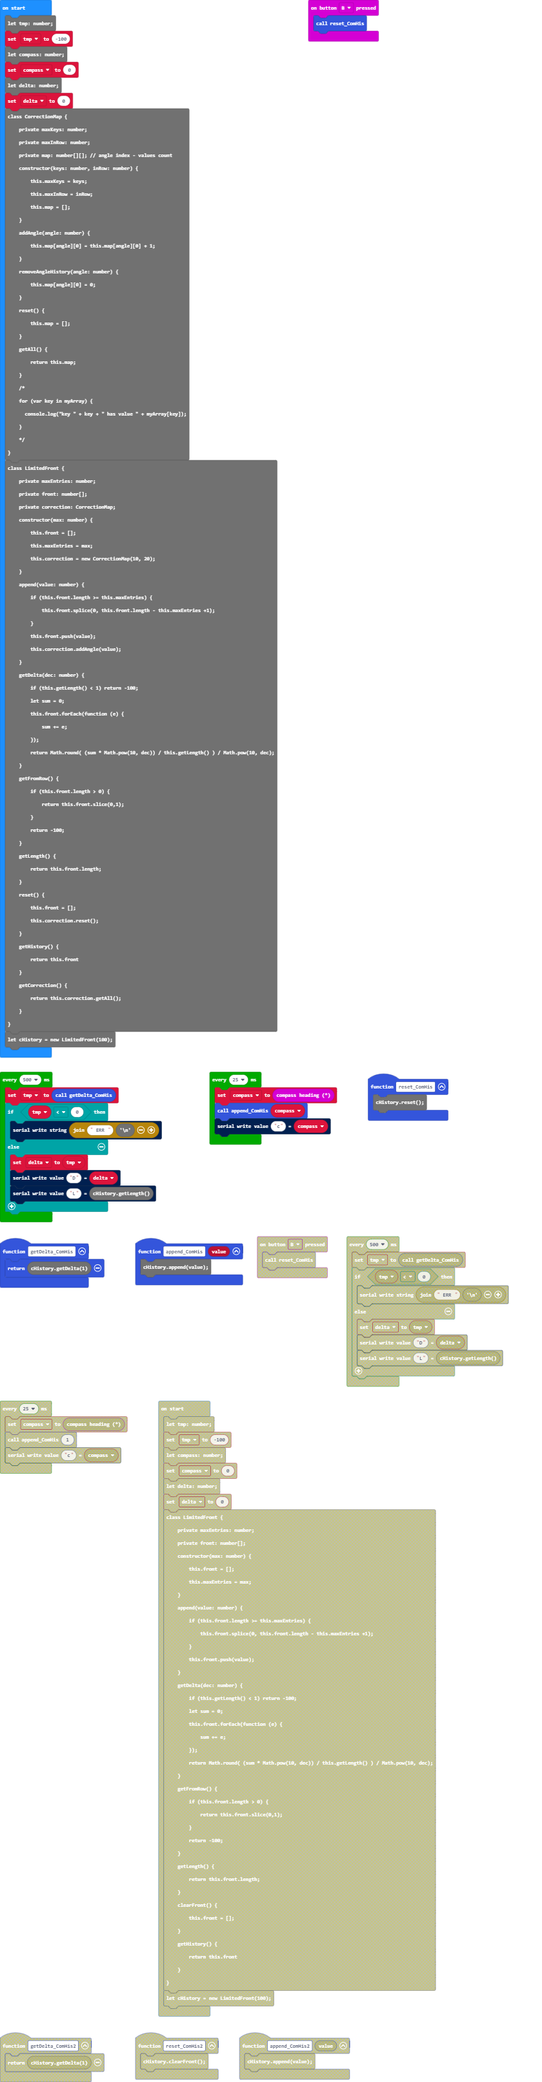
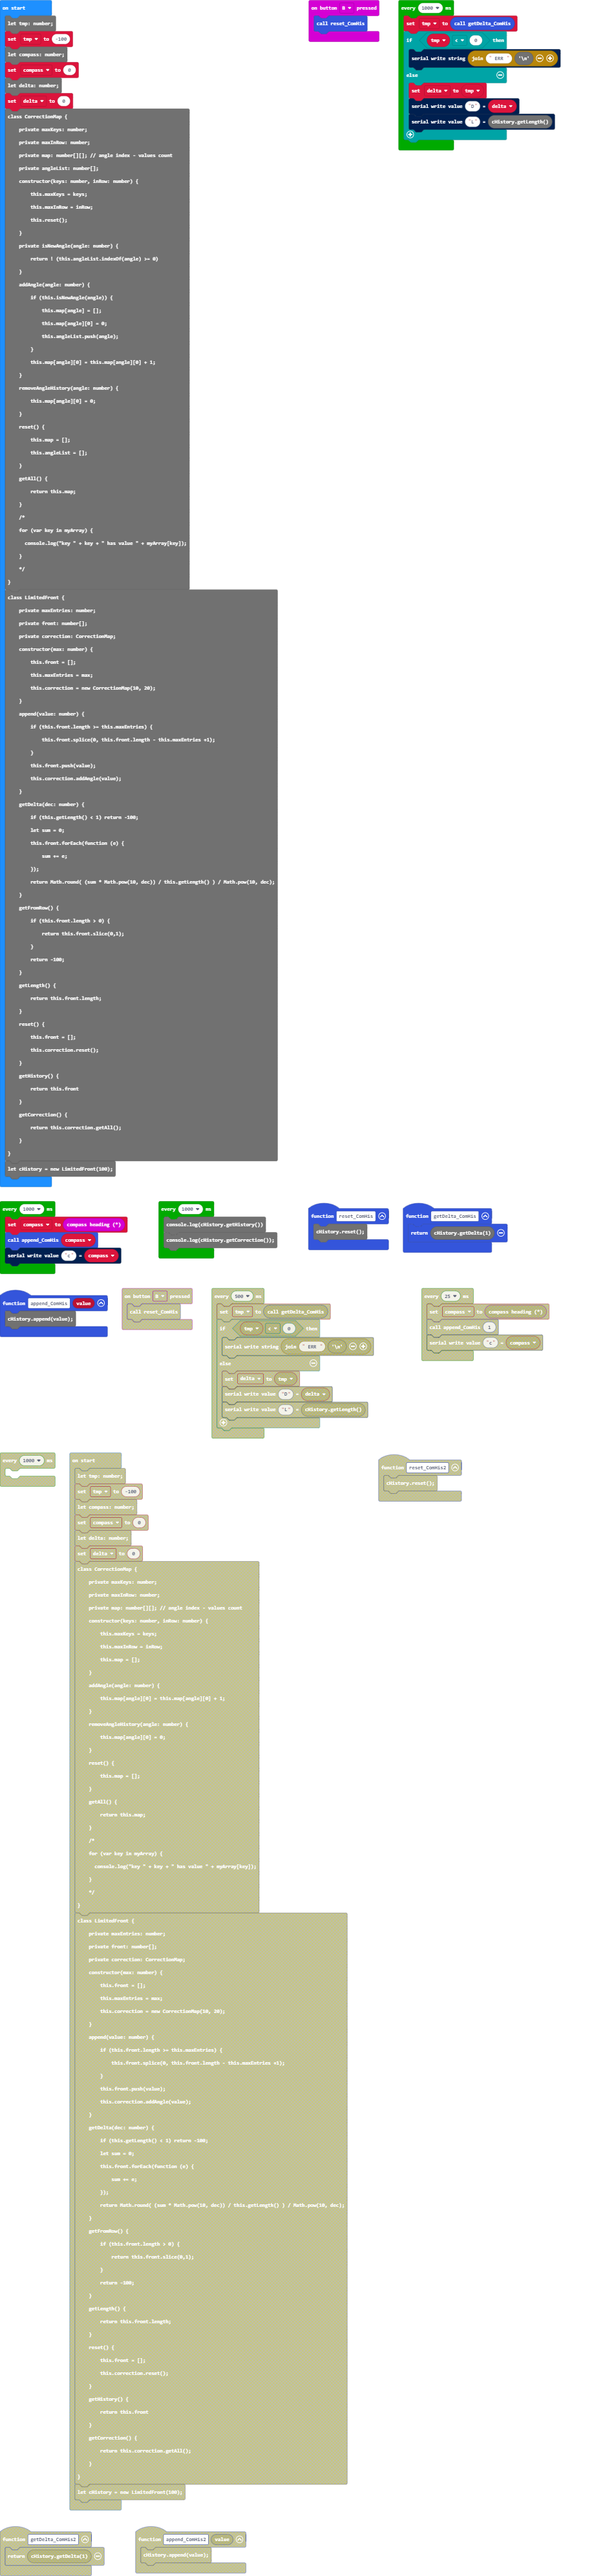
data collection for correction v1

diff --git a/main.ts b/main.ts
@@ -47,6 +47,9 @@ class CorrectionMap {
     getAll() {
         return this.map;
     }
+    getKnownAngles() {
+        return this.angleList;
+    }
     /*
     for (var key in myArray) {
       console.log("key " + key + " has value " + myArray[key]);
@@ -96,12 +99,12 @@ class LimitedFront {
     getCorrection() {
         return this.correction.getAll();
     }
+    getKnownAngles() {
+        return this.correction.getKnownAngles();
+    }
 }
 let cHistory = new LimitedFront(100);
 loops.everyInterval(1000, function () {
-	
-})
-loops.everyInterval(500, function () {
     tmp = getDelta_ComHis()
     if (tmp < 0) {
         serial.writeString(" ERR " + '\n')
@@ -111,10 +114,18 @@ loops.everyInterval(500, function () {
         serial.writeValue("L", cHistory.getLength())
     }
 })
-loops.everyInterval(25, function () {
+loops.everyInterval(1000, function () {
     compass = input.compassHeading()
     append_ComHis(compass)
     serial.writeValue("c", compass)
+})
+loops.everyInterval(1000, function () {
+    console.log(cHistory.getHistory())
+    
+    for (let i = 0; i < cHistory.getKnownAngles().length; i++) {
+        tmp = cHistory.getKnownAngles()[i]
+        console.log(tmp +" [" + cHistory.getCorrection()[tmp][0] + "]");
+    }    
 })
 basic.forever(function () {
 	
